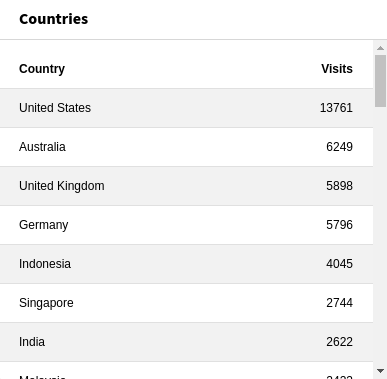
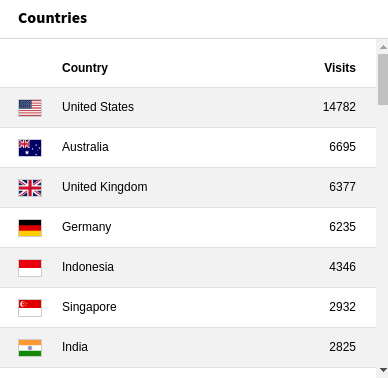
[TASK] Add flags to countries widget

diff --git a/Resources/Private/Templates/Widget/TableWidget.html b/Resources/Private/Templates/Widget/TableWidget.html
@@ -4,14 +4,26 @@
     <div class="widget-table-wrapper">
         <table class="widget-table">
             <tr>
-                <f:for each="{tableHeaders}" as="header" key="index">
-                    <th class="{tableClasses.{index}}">{header}</th>
+                <f:for each="{table.headers}" as="header" key="index">
+                    <th class="{table.classes.{index}}">{header}</th>
                 </f:for>
             </tr>
-            <f:for each="{tableRows}" as="row">
+            <f:for each="{table.rows}" as="row">
                 <tr>
-                    <f:for each="{tableColumns}" as="column" key="index">
-                        <td class="{tableClasses.{index}}">{row.{column}}</td>
+                    <f:for each="{table.columns}" as="column" key="index">
+                        <td class="{table.classes.{index}}">
+                            <f:if condition="{table.decorators.{index}}">
+                                <f:then>
+                                    <f:variable name="content" value="{matomoWidgets:decorate(decorator: '{table.decorators.{index}}', value='{row.{column}}')}"/>
+                                    <f:if condition="{table.decorators.{index}.htmlOutput}">
+                                        <f:then>{content -> f:format.htmlentitiesDecode()}</f:then>
+                                        <f:else>{content}</f:else>
+                                    </f:if>
+
+                                </f:then>
+                                <f:else>{row.{column}}</f:else>
+                            </f:if>
+                        </td>
                     </f:for>
                 </tr>
             </f:for>

diff --git a/Resources/Public/Css/matomo-widgets.css b/Resources/Public/Css/matomo-widgets.css
@@ -1,0 +1,7 @@
+.matomo-widgets__country-flag__column {
+    width: 24px;
+}
+
+.matomo-widgets__country-flag__image {
+    border: 1px solid #ccc;
+}

diff --git a/Tests/Unit/Widgets/Decorator/CountryFlagDecoratorTest.php b/Tests/Unit/Widgets/Decorator/CountryFlagDecoratorTest.php
@@ -1,0 +1,94 @@
+<?php
+declare(strict_types=1);
+
+/*
+ * This file is part of the "matomo_widgets" extension for TYPO3 CMS.
+ *
+ * For the full copyright and license information, please read the
+ * LICENSE.txt file that was distributed with this source code.
+ */
+
+namespace Brotkrueml\MatomoWidgets\Tests\Unit\Widgets\Decorator;
+
+use Brotkrueml\MatomoWidgets\Extension;
+use Brotkrueml\MatomoWidgets\Widgets\Decorator\CountryFlagDecorator;
+use PHPUnit\Framework\MockObject\Stub;
+use PHPUnit\Framework\TestCase;
+use TYPO3\CMS\Core\Configuration\ExtensionConfiguration;
+
+class CountryFlagDecoratorTest extends TestCase
+{
+    /**
+     * @var Stub|ExtensionConfiguration
+     */
+    private $extensionConfigurationStub;
+
+    protected function setUp(): void
+    {
+        $this->extensionConfigurationStub = $this->createStub(ExtensionConfiguration::class);
+    }
+
+    private function setUrlInExtensionConfigurationStub(string $url): void
+    {
+        $this->extensionConfigurationStub
+            ->method('get')
+            ->with(Extension::KEY)
+            ->willReturn(['url' => $url]);
+    }
+
+    /**
+     * @test
+     * @dataProvider dataProviderForDecorate
+     */
+    public function decorate(string $url, string $value, string $expected): void
+    {
+        $this->setUrlInExtensionConfigurationStub($url);
+        $subject = new CountryFlagDecorator($this->extensionConfigurationStub);
+
+        self::assertSame($expected, $subject->decorate($value));
+    }
+
+    public function dataProviderForDecorate(): \Generator
+    {
+        yield 'Empty value returns empty result' => [
+            'url' => 'https://example.org/',
+            'value' => '',
+            'expected' => '',
+        ];
+
+        yield 'Image URL is not valid, empty string is returned' => [
+            'url' => 'https://example.org/',
+            'value' => 'not "valid"',
+            'expected' => '',
+        ];
+
+        yield 'Flag path is provided, image tag is returned' => [
+            'url' => 'https://example.org/',
+            'value' => 'flags/us.png',
+            'expected' => '<img src="https://example.org/flags/us.png" width="24" alt="" class="matomo-widgets__country-flag__image">',
+        ];
+
+        yield 'index.php is stripped from url' => [
+            'url' => 'https://example.org/index.php',
+            'value' => 'flags/us.png',
+            'expected' => '<img src="https://example.org/flags/us.png" width="24" alt="" class="matomo-widgets__country-flag__image">',
+        ];
+
+        yield 'Missing / is appended to base URL' => [
+            'url' => 'https://example.org',
+            'value' => 'flags/us.png',
+            'expected' => '<img src="https://example.org/flags/us.png" width="24" alt="" class="matomo-widgets__country-flag__image">',
+        ];
+    }
+
+    /**
+     * @test
+     */
+    public function isHtmlOutputReturnsTrue(): void
+    {
+        $this->setUrlInExtensionConfigurationStub('https://example.org/');
+        $subject = new CountryFlagDecorator($this->extensionConfigurationStub);
+
+        self::assertTrue($subject->isHtmlOutput());
+    }
+}

diff --git a/Classes/Widgets/TableWidget.php b/Classes/Widgets/TableWidget.php
@@ -10,13 +10,15 @@ declare(strict_types=1);
 
 namespace Brotkrueml\MatomoWidgets\Widgets;
 
+use Brotkrueml\MatomoWidgets\Extension;
 use Brotkrueml\MatomoWidgets\Widgets\Provider\TableDataProviderInterface;
+use TYPO3\CMS\Dashboard\Widgets\AdditionalCssInterface;
 use TYPO3\CMS\Dashboard\Widgets\ListDataProviderInterface;
 use TYPO3\CMS\Dashboard\Widgets\WidgetConfigurationInterface;
 use TYPO3\CMS\Dashboard\Widgets\WidgetInterface;
 use TYPO3\CMS\Fluid\View\StandaloneView;
 
-class TableWidget implements WidgetInterface
+class TableWidget implements WidgetInterface, AdditionalCssInterface
 {
     /**
      * @var WidgetConfigurationInterface
@@ -56,15 +58,25 @@ class TableWidget implements WidgetInterface
         $this->view->setTemplate('Widget/TableWidget.html');
 
         $this->view->assignMultiple([
-            'tableClasses' => $this->dataProvider->getTableClasses(),
-            'tableColumns' => $this->dataProvider->getTableColumns(),
-            'tableHeaders' => $this->dataProvider->getTableHeaders(),
-            'tableRows' => $this->dataProvider->getTableRows(),
+            'table' => [
+                'classes' => $this->dataProvider->getClasses(),
+                'columns' => $this->dataProvider->getColumns(),
+                'decorators' => $this->dataProvider->getDecorators(),
+                'headers' => $this->dataProvider->getHeaders(),
+                'rows' => $this->dataProvider->getRows(),
+            ],
             'options' => $this->options,
             'button' => $this->buttonProvider,
             'configuration' => $this->configuration,
         ]);
 
         return $this->view->render();
+    }
+
+    public function getCssFiles(): array
+    {
+        return [
+            \sprintf('EXT:%s/Resources/Public/Css/matomo-widgets.css', Extension::KEY),
+        ];
     }
 }

diff --git a/Classes/Widgets/Provider/GenericTableDataProvider.php b/Classes/Widgets/Provider/GenericTableDataProvider.php
@@ -55,17 +55,17 @@ class GenericTableDataProvider implements TableDataProviderInterface
         $this->parameters = $parameters;
     }
 
-    public function getTableClasses(): array
+    public function getClasses(): array
     {
-        $aligns = $this->columns;
-        \array_walk($aligns, static function (&$align): void {
-            $align = $align['align'] ?? '';
+        $classes = $this->columns;
+        \array_walk($classes, static function (&$class): void {
+            $class = $class['classes'] ?? '';
         });
 
-        return $aligns;
+        return $classes;
     }
 
-    public function getTableColumns(): array
+    public function getColumns(): array
     {
         $columns = $this->columns;
         \array_walk($columns, static function (&$column): void {
@@ -75,17 +75,27 @@ class GenericTableDataProvider implements TableDataProviderInterface
         return $columns;
     }
 
-    public function getTableHeaders(): array
+    public function getDecorators(): array
+    {
+        $decorators = $this->columns;
+        \array_walk($decorators, static function (&$decorator): void {
+            $decorator = $decorator['decorator'] ?? null;
+        });
+
+        return $decorators;
+    }
+
+    public function getHeaders(): array
     {
         $headers = $this->columns;
         \array_walk($headers, function (&$header): void {
-            $header = $this->languageService->sL($header['header'] ?? 'unknown');
+            $header = $this->languageService->sL($header['header'] ?? '');
         });
 
         return $headers;
     }
 
-    public function getTableRows(): array
+    public function getRows(): array
     {
         return $this->repository->find($this->method, new ParameterBag($this->parameters));
     }

diff --git a/Classes/ViewHelpers/DecorateViewHelper.php b/Classes/ViewHelpers/DecorateViewHelper.php
@@ -1,0 +1,48 @@
+<?php
+declare(strict_types=1);
+
+/*
+ * This file is part of the "matomo_widgets" extension for TYPO3 CMS.
+ *
+ * For the full copyright and license information, please read the
+ * LICENSE.txt file that was distributed with this source code.
+ */
+
+namespace Brotkrueml\MatomoWidgets\ViewHelpers;
+
+use Brotkrueml\MatomoWidgets\Widgets\Decorator\DecoratorInterface;
+use TYPO3Fluid\Fluid\Core\Rendering\RenderingContextInterface;
+use TYPO3Fluid\Fluid\Core\ViewHelper;
+
+class DecorateViewHelper extends ViewHelper\AbstractViewHelper
+{
+    public function initializeArguments()
+    {
+        parent::initializeArguments();
+
+        $this->registerArgument('decorator', 'object', 'The class name of the decorator', true);
+        $this->registerArgument('value', 'string', 'The value to decorate', true);
+    }
+
+    public static function renderStatic(
+        array $arguments,
+        \Closure $renderChildrenClosure,
+        RenderingContextInterface $renderingContext
+    ): string {
+        $decorator = $arguments['decorator'];
+        $value = $arguments['value'];
+
+        if (!$decorator instanceof DecoratorInterface) {
+            throw new ViewHelper\Exception(
+                \sprintf(
+                    'The decorator "%s" is not an instance of "%s"',
+                    \get_debug_type($decorator),
+                    DecoratorInterface::class
+                ),
+                1594828163
+            );
+        }
+
+        return $decorator->decorate($value);
+    }
+}

diff --git a/Classes/Widgets/Decorator/CountryFlagDecorator.php b/Classes/Widgets/Decorator/CountryFlagDecorator.php
@@ -1,0 +1,54 @@
+<?php
+declare(strict_types=1);
+
+/*
+ * This file is part of the "matomo_widgets" extension for TYPO3 CMS.
+ *
+ * For the full copyright and license information, please read the
+ * LICENSE.txt file that was distributed with this source code.
+ */
+
+namespace Brotkrueml\MatomoWidgets\Widgets\Decorator;
+
+use Brotkrueml\MatomoWidgets\Extension;
+use TYPO3\CMS\Core\Configuration\ExtensionConfiguration;
+
+class CountryFlagDecorator implements DecoratorInterface
+{
+    /**
+     * @var string
+     */
+    private $baseUrl;
+
+    public function __construct(ExtensionConfiguration $extensionConfiguration)
+    {
+        $this->baseUrl = $this->normaliseUrl($extensionConfiguration->get(Extension::KEY)['url']);
+    }
+
+    private function normaliseUrl(string $url): string
+    {
+        $url = \str_replace('index.php', '', $url);
+        $url = \rtrim($url, '/') . '/';
+
+        return $url;
+    }
+
+    public function decorate(string $value): string
+    {
+        if (!$value) {
+            return '';
+        }
+
+        $imageUrl = $this->baseUrl . $value;
+        if (!\filter_var($imageUrl, FILTER_VALIDATE_URL)) {
+            return '';
+        }
+
+        return \sprintf('<img src="%s" width="24" alt="" class="matomo-widgets__country-flag__image">', $imageUrl);
+    }
+
+    public function isHtmlOutput(): bool
+    {
+        return true;
+    }
+}

diff --git a/Classes/Widgets/Provider/TableDataProviderInterface.php b/Classes/Widgets/Provider/TableDataProviderInterface.php
@@ -12,11 +12,13 @@ namespace Brotkrueml\MatomoWidgets\Widgets\Provider;
 
 interface TableDataProviderInterface
 {
-    public function getTableClasses(): array;
+    public function getClasses(): array;
 
-    public function getTableColumns(): array;
+    public function getColumns(): array;
 
-    public function getTableHeaders(): array;
+    public function getDecorators(): array;
 
-    public function getTableRows(): array;
+    public function getHeaders(): array;
+
+    public function getRows(): array;
 }

diff --git a/Classes/Widgets/Decorator/DecoratorInterface.php b/Classes/Widgets/Decorator/DecoratorInterface.php
@@ -1,0 +1,18 @@
+<?php
+declare(strict_types=1);
+
+/*
+ * This file is part of the "matomo_widgets" extension for TYPO3 CMS.
+ *
+ * For the full copyright and license information, please read the
+ * LICENSE.txt file that was distributed with this source code.
+ */
+
+namespace Brotkrueml\MatomoWidgets\Widgets\Decorator;
+
+interface DecoratorInterface
+{
+    public function decorate(string $value): string;
+
+    public function isHtmlOutput(): bool;
+}

diff --git a/ext_localconf.php b/ext_localconf.php
@@ -10,3 +10,5 @@ if (!is_array($GLOBALS['TYPO3_CONF_VARS']['SYS']['caching']['cacheConfigurations
         ],
     ];
 }
+
+$GLOBALS['TYPO3_CONF_VARS']['SYS']['fluid']['namespaces']['matomoWidgets'] = ['Brotkrueml\\MatomoWidgets\\ViewHelpers'];
